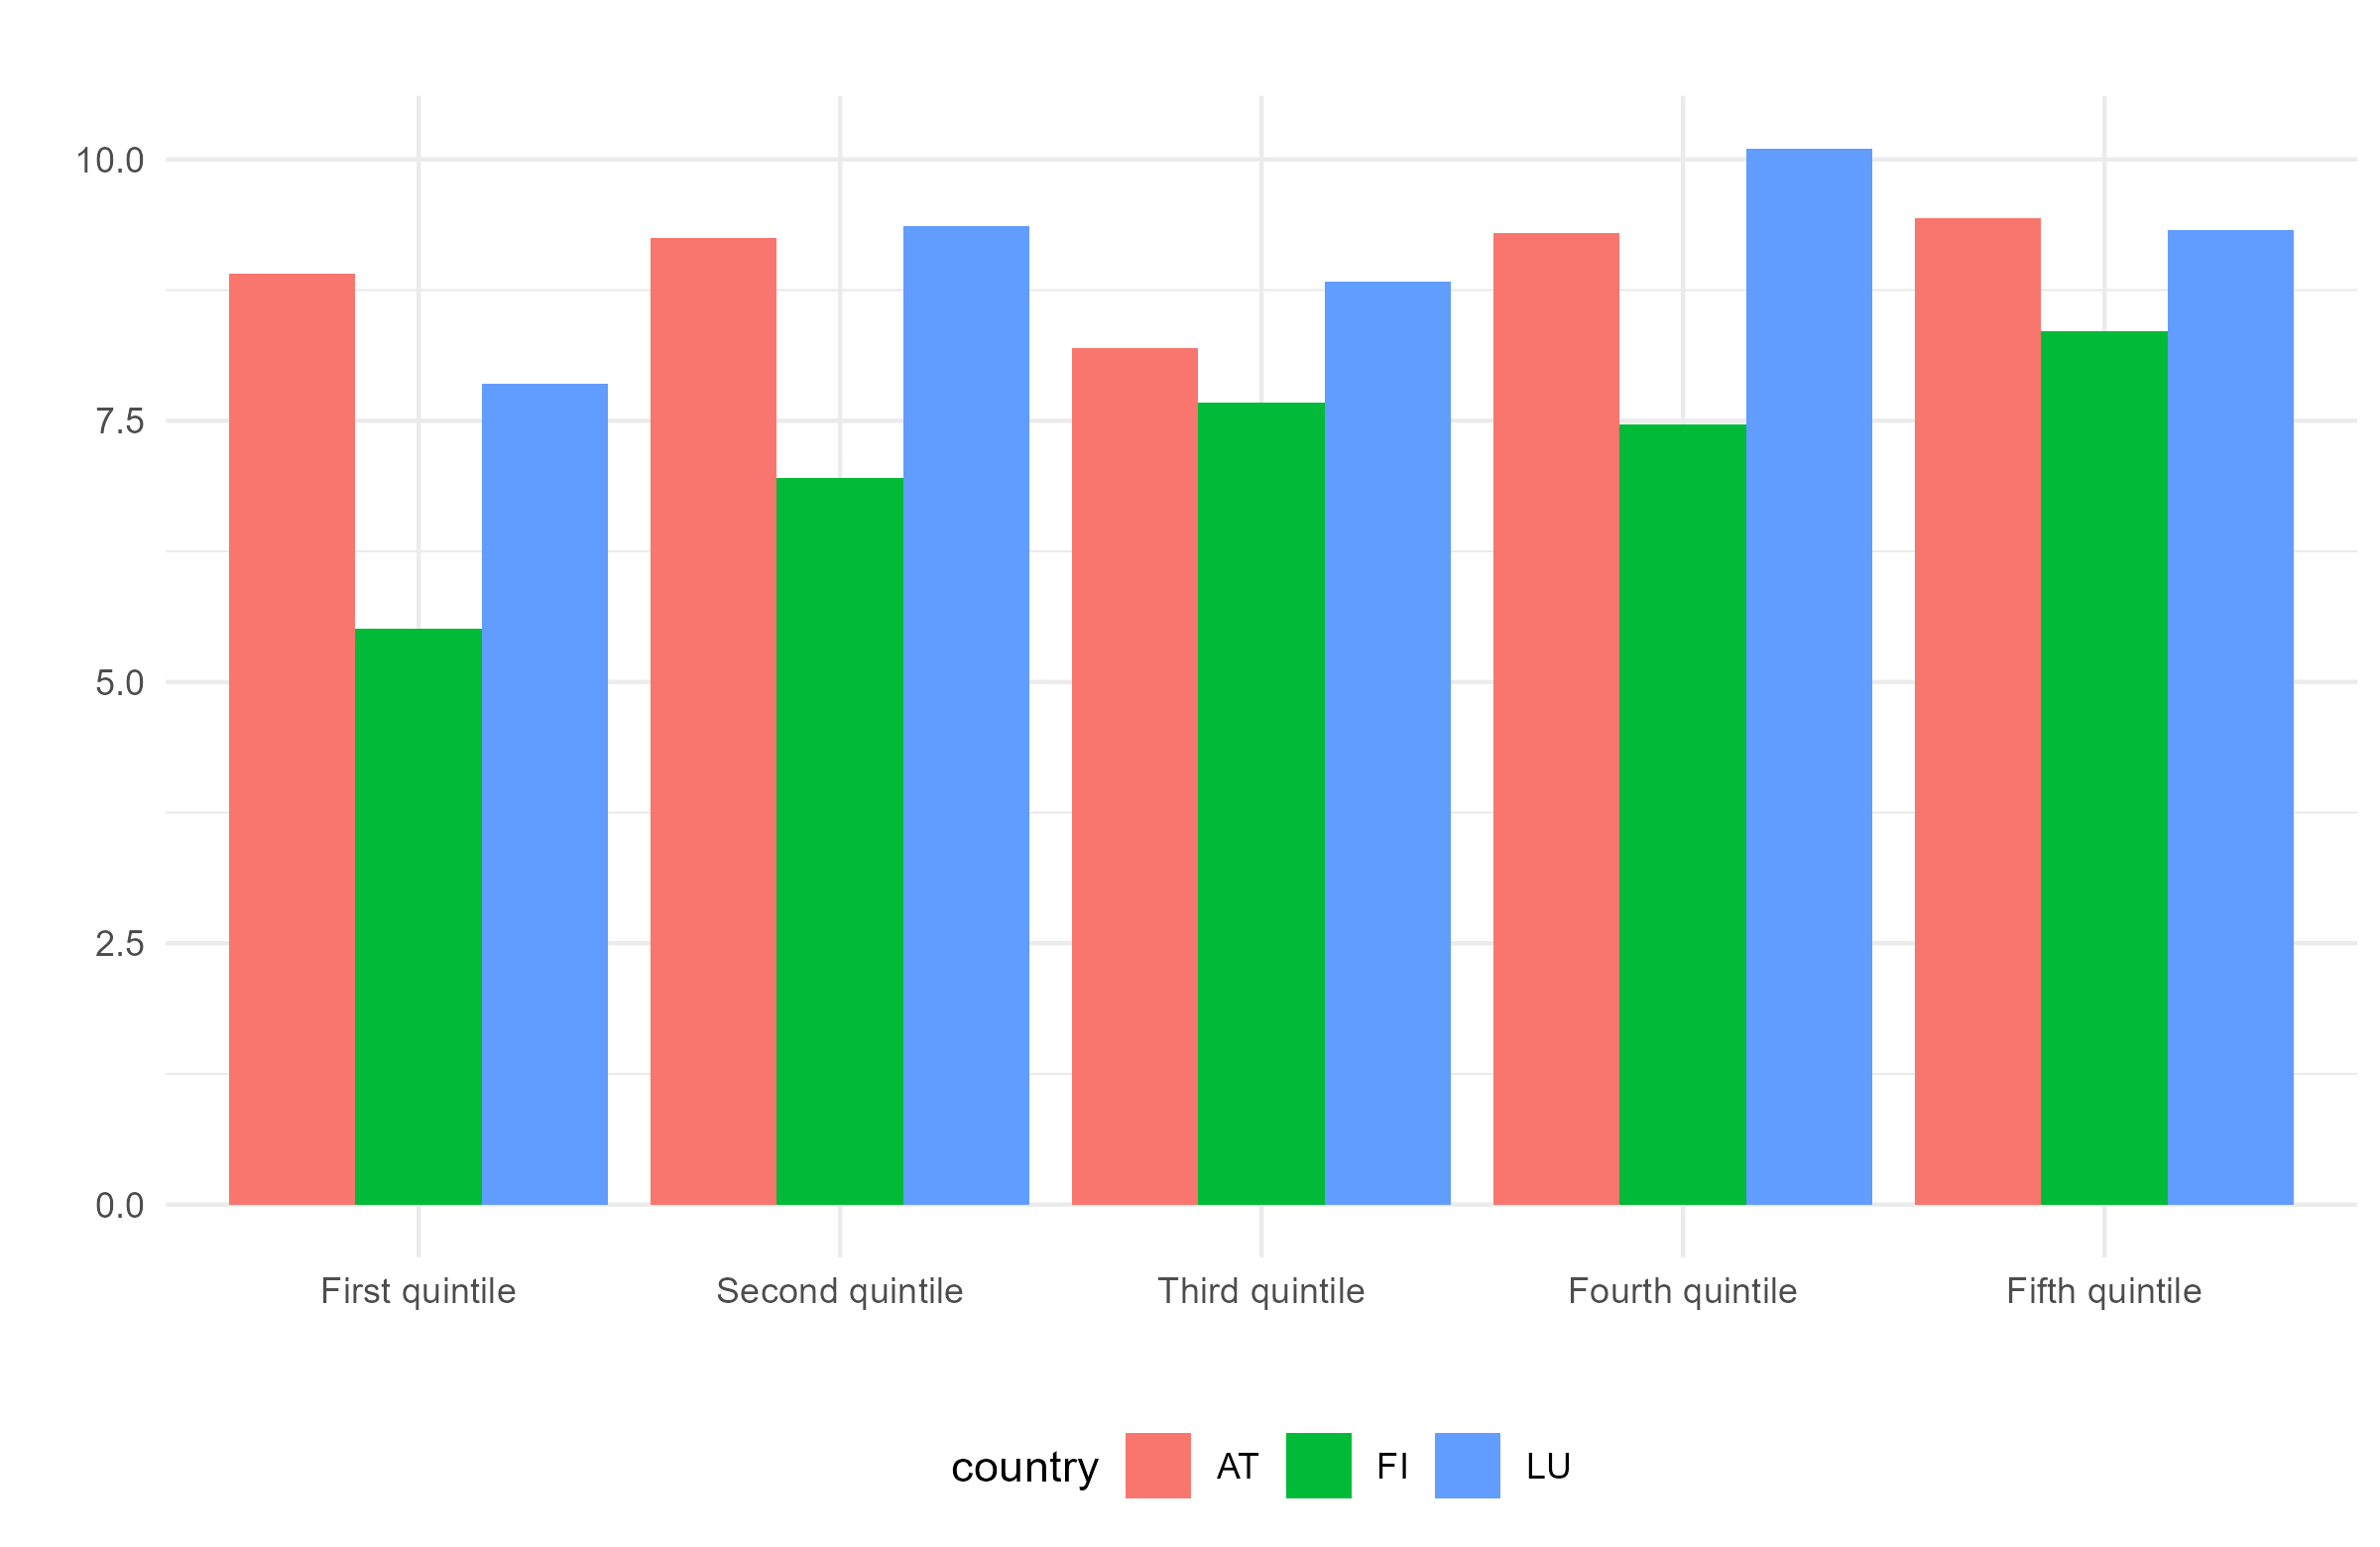
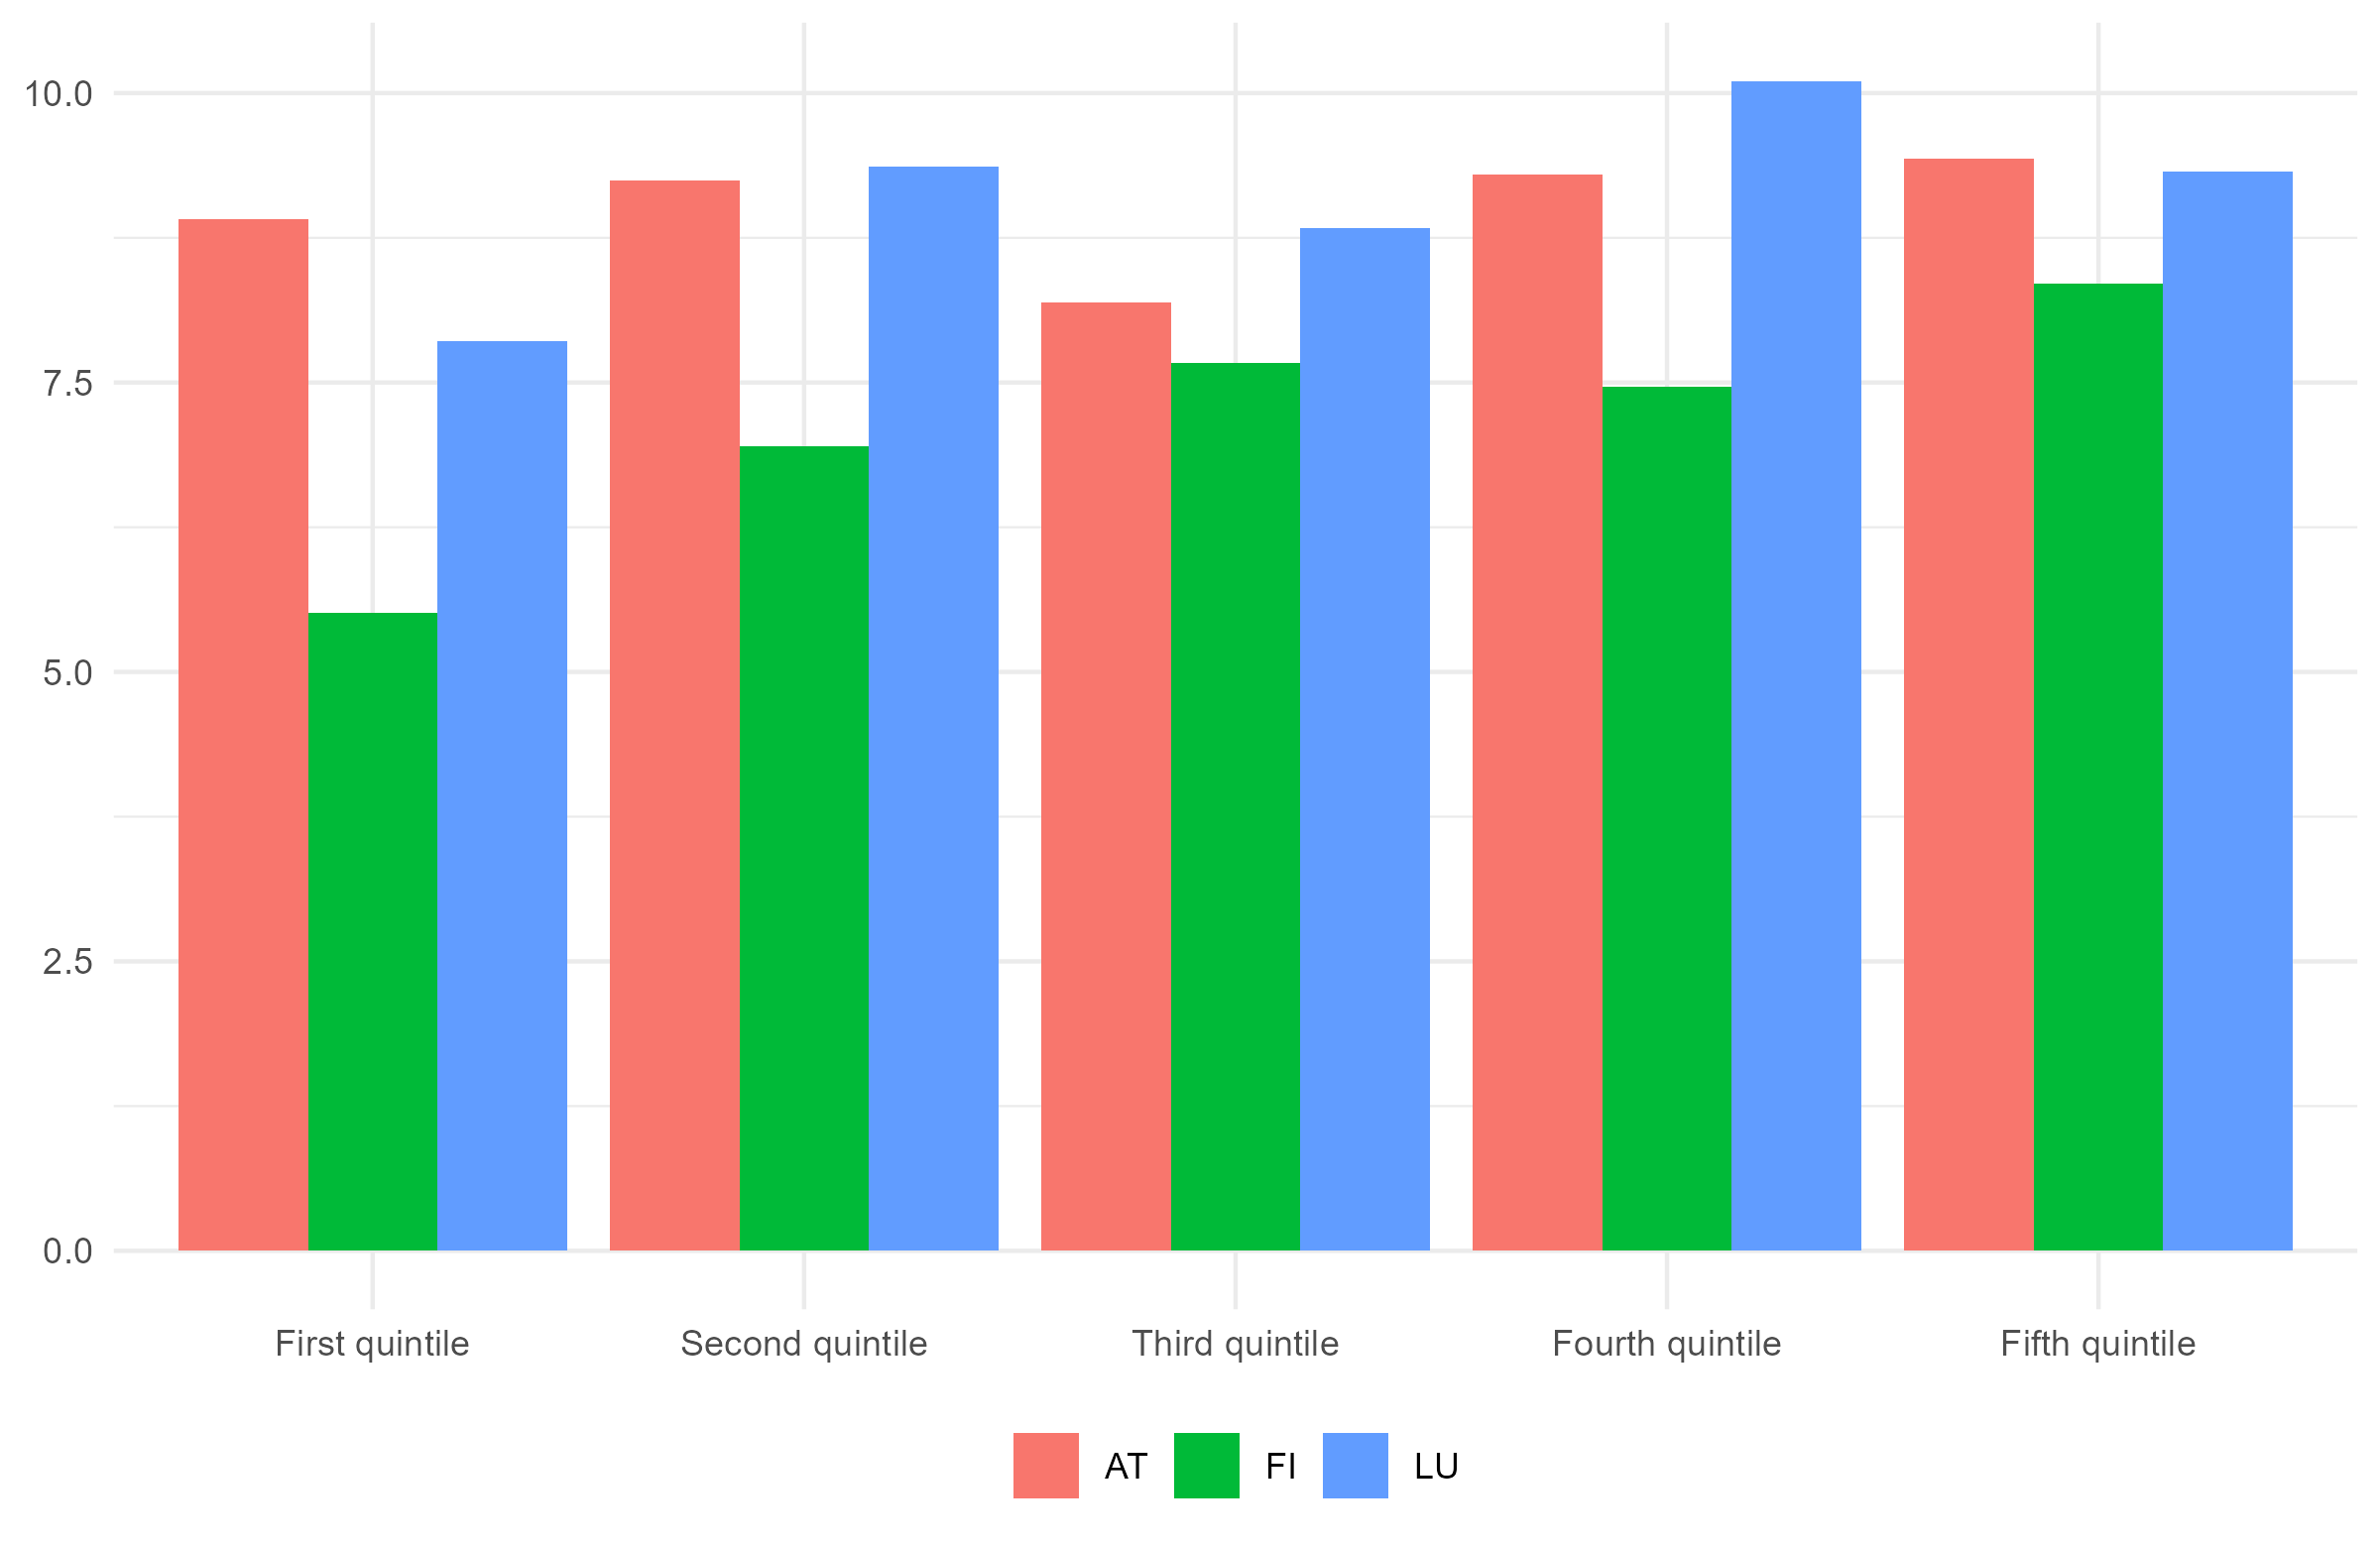
Polish appendix notes and figure legends

diff --git a/main.tex b/main.tex
@@ -706,7 +706,7 @@ While we calculate of inflation rates for different household categories, it rem
 \vspace{10pt}
 \captionsetup{font=footnotesize, format=hang, singlelinecheck=false, justification=justified}
 \caption*{Notes: The figure reports chained price indices from 1996 using the France level-3 workflow. The panels compare income quintiles, age groups, and residence areas.\\
-Sources: Eurostat HICP; INSEE Budget de famille 2017; authors' calculation.}
+Sources: Eurostat HICP; INSEE HBS 2017; authors' calculation.}
 \end{figure}
 %%%%%%%%%%%%%%%%%%%%%%%%%%%%%%%%%%%%%%%%%%%%%%%%%%%%%%%%%%%%%%
 \newpage
@@ -740,7 +740,7 @@ Sources: Eurostat HICP; INSEE Budget de famille 2017; authors' calculation.}
 \vspace{10pt}
 \captionsetup{font=footnotesize, format=hang, singlelinecheck=false, justification=justified}
 \caption*{Notes: The figure reports monthly year-on-year inflation rates using the France level-3 workflow. The panels compare income quintiles, age groups, and residence areas over the recent inflation episode.\\
-Sources: Eurostat HICP; INSEE Budget de famille 2017; authors' calculation.}
+Sources: Eurostat HICP; INSEE HBS 2017; authors' calculation.}
 \end{figure}
 %%%%%%%%%%%%%%%%%%%%%%%%%%%%%%%%%%%%%%%%%%%%%%%%%%%%%%%%%%%%%%
 \newpage
@@ -774,7 +774,7 @@ Sources: Eurostat HICP; INSEE Budget de famille 2017; authors' calculation.}
 \vspace{10pt}
 \captionsetup{font=footnotesize, format=hang, singlelinecheck=false, justification=justified}
 \caption*{Notes: Bars decompose the monthly inflation gap into broad consumption components; the black line reports the total gap. Positive values indicate higher inflation for the first group named in each panel.\\
-Sources: Eurostat HICP; INSEE Budget de famille 2017; authors' calculation.}
+Sources: Eurostat HICP; INSEE HBS 2017; authors' calculation.}
 \end{figure}
 %%%%%%%%%%%%%%%%%%%%%%%%%%%%%%%%%%%%%%%%%%%%%%%%%%%%%%%%%%%%%%
 \newpage
@@ -783,40 +783,37 @@ Sources: Eurostat HICP; INSEE Budget de famille 2017; authors' calculation.}
 
 This appendix reports validation checks for the inflation series recalculated with the package methodology. The objective is not to replicate the official aggregate index mechanically: household-group indices are built by combining official item prices and weights with group-specific expenditure shares, and the group average is then compared with the official all-items series. The validation is therefore a diagnostic on the size and time profile of the residual difference between the package recalculation and the published aggregate.
 
-Figure~\ref{fig:fr-validation-rate} compares the French year-on-year inflation rate recomputed with the national-source level-3 INSEE workflow to the published all-items HICP. The level-3 workflow uses INSEE item price indices and index weights together with Budget de famille expenditure shares by standard-of-living group, after recoding the ECOICOP v2 product structure to the COICOP v1 structure used by the HICP/HBS bridge. The grey bars report the monthly difference between the package recalculation and the published all-items HICP, in percentage points.
+Figure~\ref{fig:fr-validation-rate} compares the French year-on-year inflation rate recomputed with detailed item prices and household-group expenditure shares to the published all-items HICP. The grey bars report the monthly difference between the package recalculation and the published all-items HICP, in percentage points.
 
 Figure~\ref{fig:fr-validation-level} performs a complementary validation in index levels. The package first constructs chained price indices for French income groups and then compares the average across household groups with the published all-items HICP rebased to the same base year. This level comparison is useful because small monthly rate differences can accumulate in long-run index measures.
 
 Finally, Table~\ref{tab:fr-decile-validation} compares the package's annual inflation rates by French standard-of-living decile with the official annual INSEE decile series. The reported offsets remain small, although they should be read with the same caveat: the package combines detailed prices and expenditure structures rather than reproducing the exact INSEE production system.
 
+\newpage
 
 %%%%%%%%%%%%%%%%%%%%%%%%%%%%%%%%%%%%%%%%%%%%%%%%%%%%%%%%%%%%%%
-\begin{figure}[H]
+\begin{center}
 \centering
-\caption{Comparison with national HICP: France, level-3 INSEE workflow (inflation in \%, offset in pp)}
+\captionsetup{type=figure}
+\captionof{figure}{Comparison with national HICP: France (inflation in \%, offset in pp)}
 \label{fig:fr-validation-rate}
-\includegraphics[width=0.86\textwidth]{fig/fig_FR_2010_2026_hicp_inflation_validation_level3_insee_recode_mean_vs_published.png}
-\vspace{20pt} 
-\captionsetup{font=footnotesize, format=hang, singlelinecheck=false, justification=justified}
-\caption*{Note: The blue line reports the published all-items HICP for France. The black line reports the package recalculation using INSEE level-3 item prices, INSEE index weights, and Budget de famille expenditure shares. Grey bars show the recalculation minus the published HICP, in percentage points.\\
+\includegraphics[width=0.82\textwidth,height=0.20\textheight,keepaspectratio]{fig/fig_FR_2010_2026_hicp_inflation_validation_level3_insee_recode_mean_vs_published.png}
+\vspace{2pt} 
+\captionsetup{font=scriptsize, format=hang, singlelinecheck=false, justification=justified}
+\caption*{Note: Blue line: published all-items HICP. Black line: package recalculation. Grey bars: recalculation minus published HICP, in percentage points.\\
 Sources: INSEE, Eurostat, authors' calculation.}
-\end{figure}
-%%%%%%%%%%%%%%%%%%%%%%%%%%%%%%%%%%%%%%%%%%%%%%%%%%%%%%%%%%%%%%
-
-
-
+\vspace{8pt}
 
 %%%%%%%%%%%%%%%%%%%%%%%%%%%%%%%%%%%%%%%%%%%%%%%%%%%%%%%%%%%%%%
-\begin{figure}[H]
-\centering
-\caption{Comparison with national HICP: France (index level, offset in index points)}
+\captionsetup{type=figure}
+\captionof{figure}{Comparison with national HICP: France (index level, offset in index points)}
 \label{fig:fr-validation-level}
-\includegraphics[width=0.86\textwidth]{fig/fig_FR_2010_2026_hicp_validation_level_mean_vs_published.png}
-\vspace{20pt} 
-\captionsetup{font=footnotesize, format=hang, singlelinecheck=false, justification=justified}
-\caption*{Note: This figure compares the average recalculated household-group price index with the published French all-items HICP, after rebasing both series to the same base year. Grey bars show the recalculation minus the published HICP, in index points.\\
+\includegraphics[width=0.82\textwidth,height=0.20\textheight,keepaspectratio]{fig/fig_FR_2010_2026_hicp_validation_level_mean_vs_published.png}
+\vspace{2pt} 
+\captionsetup{font=scriptsize, format=hang, singlelinecheck=false, justification=justified}
+\caption*{Note: Average recalculated household-group index and published all-items HICP, rebased to the same base year. Grey bars: recalculation minus published HICP, in index points.\\
 Sources: INSEE, Eurostat, authors' calculation.}
-\end{figure}
+\end{center}
 %%%%%%%%%%%%%%%%%%%%%%%%%%%%%%%%%%%%%%%%%%%%%%%%%%%%%%%%%%%%%%
 
 

diff --git a/appendices/substitution_bias_appendix.tex b/appendices/substitution_bias_appendix.tex
@@ -95,7 +95,7 @@ Fifth quintile & 2.91 & 2.82 & 0.09 \\
 \footnotesize
 \emph{Notes:} Growth rates and substitution-bias estimates are expressed in
 annualized percentage points over the selected sample window. The calculation
-uses the French level-3 INSEE workflow with income quintiles obtained from
+uses detailed French item prices and weights with income quintiles obtained from
 adjacent standard-of-living deciles.
 \end{minipage}
 \end{table}